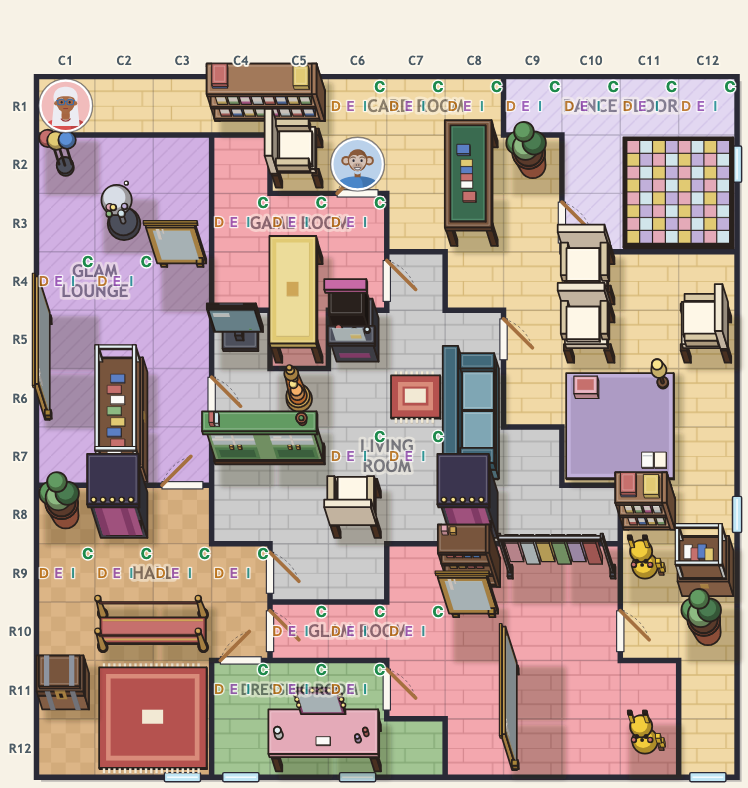
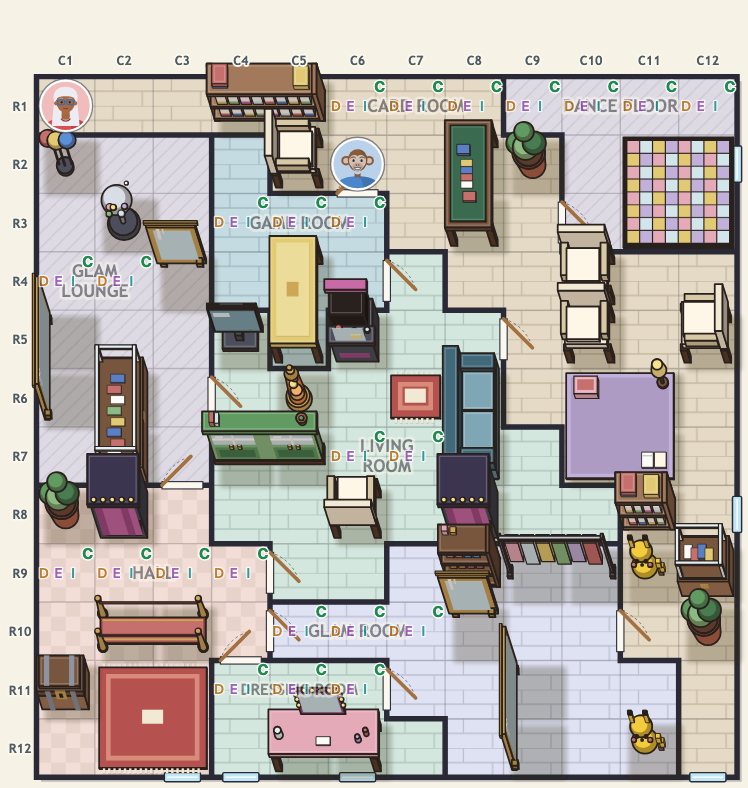
feat(render): calm room tints at strength 0.4, the owner's pick (SLAY-20)
Owner round 3 on PR #171: round 2 was too colourful. Only the soft tint
ring is left, and one constant, TINT_CHROMA_SCALE, scales the chroma of
every floor colour; the owner chose 0.4 after trying strengths live. At 0.4
touching rooms are at least 8.0 delta E apart on every scheduled day
(closest pair 8.02), with a hue shift, and every tone keeps the label ink
at 7:1 or better. Tests check contrast, valid hex output and the touching
distance; the slay20 driver checks the drawn fills against the same
minimum. Screenshots re-rendered at 0.4 with round 1/2/3 of the school board.

diff --git a/src/render/scene/roomStyles.ts b/src/render/scene/roomStyles.ts
@@ -19,54 +19,102 @@ export interface RoomStyle {
   variants: readonly FloorStyle[]
 }
 
-/** The classic tone of each floor kind (the look before SLAY-20): what a room gets when no neighbour is in the way. */
-const CLASSIC: Record<FloorPattern, FloorStyle> = {
-  wood: { fill: '#f1d9a6', ink: '#d7b978' },
-  tiles: { fill: '#f6efe0', ink: '#e3d6bb' },
-  grass: { fill: '#cdebd0', ink: '#8fc79a' },
-  water: { fill: '#bfe3f2', ink: '#8cc6e0' },
-  stone: { fill: '#cbc3cf', ink: '#a79eac' },
-  carpet: { fill: '#e2d7f1', ink: '#c5b4e0' },
+/**
+ * Strength of every floor colour (SLAY-20): the chroma (colourfulness in CIE L*a*b*) of the classic tones
+ * and the shared tints is multiplied by this. 1 is the full-strength look of the first rounds; after
+ * "te veel kleur verschil", "iets te fel", "mag wat subtieler" and "nog zachter" the owner tried strengths
+ * live and picked 0.4 ("Tint 0.4 is de sweet spot"). One knob: lower is greyer and calmer, higher is more
+ * colourful. The distances below scale with it; roomStyles.test.ts checks the strength in use.
+ */
+export const TINT_CHROMA_SCALE = 0.4
+
+/** The classic tone of each floor kind at full strength (the look before SLAY-20): what a room gets when no neighbour is in the way. */
+const CLASSIC_BASE: Record<FloorPattern, string> = {
+  wood: '#f1d9a6',
+  tiles: '#f6efe0',
+  grass: '#cdebd0',
+  water: '#bfe3f2',
+  stone: '#cbc3cf',
+  carpet: '#e2d7f1',
 }
 
 /**
- * Shared tints, a lattice in CIE L*a*b* (SLAY-20, owner: "the tints still look too much alike"): six hues
- * at L* 76 and chroma 30, six hues in between at L* 89 and chroma 21, and a grey at L* 82. Every two are at
- * least MIN_NEIGHBOUR_DISTANCE apart, with a real hue shift, and every one keeps the label ink at 7:1 or
- * better. The floor pattern drawn over it (planks, tiles, blades, waves ...) keeps the material readable.
+ * Shared soft tints (SLAY-20): six hues 60 degrees apart on a light ring in CIE L*a*b* (chroma 21 at full
+ * strength, L* alternating 90 and 86 so neighbouring hues also differ in lightness). Round 2 also had a
+ * darker, stronger ring and a grey; the owner found that too much, so only this light ring is left.
  */
-export const TINTS: readonly (FloorStyle & { name: string })[] = [
-  { name: 'rose', fill: '#f3a7ae', ink: '#d68990' },
-  { name: 'honey', fill: '#dcb586', ink: '#be9768' },
-  { name: 'sage', fill: '#a2c593', ink: '#83a875' },
-  { name: 'teal', fill: '#6acbc9', ink: '#42adab' },
-  { name: 'sky', fill: '#85c2f0', ink: '#61a5d4' },
-  { name: 'lilac', fill: '#d1b0e3', ink: '#b391c6' },
-  { name: 'peach', fill: '#ffd5c4', ink: '#e8b6a5' },
-  { name: 'straw', fill: '#e5e1b9', ink: '#c6c399' },
-  { name: 'mint', fill: '#b9ead5', ink: '#99ccb6' },
-  { name: 'ice', fill: '#ade9fb', ink: '#8bcbdd' },
-  { name: 'periwinkle', fill: '#d6deff', ink: '#b7bfe8' },
-  { name: 'blush', fill: '#ffd3ea', ink: '#e4b3cc' },
-  { name: 'grey', fill: '#cccccc', ink: '#aeaeae' },
+const TINT_HUES: readonly [name: string, hue: number, lightness: number][] = [
+  ['peach', 45, 90],
+  ['straw', 105, 86],
+  ['mint', 165, 90],
+  ['ice', 225, 86],
+  ['periwinkle', 285, 90],
+  ['blush', 345, 86],
 ]
+const TINT_CHROMA = 21
 
-/** Rooms that touch differ by at least this much (CIE76 delta E): another colour at a glance, not a shade. */
-export const MIN_NEIGHBOUR_DISTANCE = 18
-
-function variantsOf(pattern: FloorPattern): FloorStyle[] {
-  const classic = CLASSIC[pattern]
-  const others = TINTS.filter((t) => colourDistance(t.fill, classic.fill) >= MIN_NEIGHBOUR_DISTANCE)
-    .map(({ fill, ink }) => ({ fill, ink, d: colourDistance(fill, classic.fill) }))
-    .sort((x, y) => x.d - y.d)
-    .map(({ fill, ink }) => ({ fill, ink }))
-  return [classic, ...others]
+/** A fill and its pattern ink (12 L* darker, a little more colour) from a CIE L*a*b* colour. */
+function toneOf(L: number, a: number, b: number): FloorStyle {
+  return { fill: labToHex(L, a, b), ink: labToHex(L - 12, a * 1.15, b * 1.15) }
 }
 
-/** Own flat palette, in the spirit of the official sheets: soft fills, light pattern lines. */
-export const ROOM_STYLES: Record<FloorPattern, RoomStyle> = Object.fromEntries(
-  (Object.keys(CLASSIC) as FloorPattern[]).map((id) => [id, { id, variants: variantsOf(id) }]),
-) as unknown as Record<FloorPattern, RoomStyle>
+/** Everything that depends on the strength: the tones per floor kind and the distances the colouring uses. */
+export interface Palette {
+  scale: number
+  /** The classic tone of each kind first, then the shared tints that are clearly another colour, nearest first. */
+  styles: Record<FloorPattern, RoomStyle>
+  tints: readonly (FloorStyle & { name: string })[]
+  /** Rooms that touch differ by at least this much (CIE76 delta E); roomStyles.test.ts checks it on every scheduled day. */
+  minNeighbourDistance: number
+  /** A tint closer than this to a kind's classic tone is left out of that kind (it would read as the classic). */
+  minTintFromClassic: number
+  /** Tones at least this far from every neighbour all count as far enough; then the kind's own look decides. */
+  farEnough: number
+}
+
+const palettes = new Map<number, Palette>()
+
+/** The palette at a strength (memoised). */
+export function paletteFor(scale: number = TINT_CHROMA_SCALE): Palette {
+  const known = palettes.get(scale)
+  if (known) return known
+  const classic = Object.fromEntries(
+    Object.entries(CLASSIC_BASE).map(([kind, hex]) => {
+      const [L, a, b] = lab(hex)
+      return [kind, toneOf(L, a * scale, b * scale)]
+    }),
+  ) as Record<FloorPattern, FloorStyle>
+  const tints = TINT_HUES.map(([name, hue, L]) => {
+    const c = TINT_CHROMA * scale
+    return { name, ...toneOf(L, c * Math.cos((hue * Math.PI) / 180), c * Math.sin((hue * Math.PI) / 180)) }
+  })
+  const minTintFromClassic = 15 * scale
+  const variantsOf = (kind: FloorPattern): FloorStyle[] => [
+    classic[kind],
+    ...tints
+      .filter((t) => colourDistance(t.fill, classic[kind].fill) >= minTintFromClassic)
+      .map(({ fill, ink }) => ({ fill, ink, d: colourDistance(fill, classic[kind].fill) }))
+      .sort((x, y) => x.d - y.d)
+      .map(({ fill, ink }) => ({ fill, ink })),
+  ]
+  const styles = Object.fromEntries(
+    (Object.keys(CLASSIC_BASE) as FloorPattern[]).map((id) => [id, { id, variants: variantsOf(id) }]),
+  ) as unknown as Record<FloorPattern, RoomStyle>
+  // 20 x scale (8.0 at 0.4) is what the colouring reaches on every scheduled day at the chosen strength; the
+  // closest touching pair is 8.02 (tested). Another strength may need another factor: the test prints the closest pair.
+  const palette = { scale, styles, tints, minNeighbourDistance: 20 * scale, minTintFromClassic, farEnough: 25 * scale }
+  palettes.set(scale, palette)
+  return palette
+}
+
+/** The default palette's tones per floor kind. */
+export const ROOM_STYLES: Record<FloorPattern, RoomStyle> = paletteFor().styles
+/** The default palette's shared tints. */
+export const TINTS = paletteFor().tints
+/** The default palette's minimum difference between touching rooms. */
+export const MIN_NEIGHBOUR_DISTANCE = paletteFor().minNeighbourDistance
+/** The default palette's minimum distance of a tint from a kind's classic tone. */
+export const MIN_TINT_FROM_CLASSIC = paletteFor().minTintFromClassic
 
 const CYCLE: FloorPattern[] = ['wood', 'carpet', 'tiles', 'grass', 'stone', 'water']
 
@@ -107,6 +155,23 @@ function lab(hex: string): [number, number, number] {
   return [116 * y - 16, 500 * (x - y), 200 * (y - z)]
 }
 
+/** #rrggbb of a CIE L*a*b* colour (D65), clipped to sRGB. */
+function labToHex(L: number, a: number, b: number): string {
+  const fy = (L + 16) / 116
+  const inv = (t: number) => (t ** 3 > 0.008856 ? t ** 3 : (t - 16 / 116) / 7.787)
+  const X = inv(fy + a / 500) * 0.95047
+  const Y = inv(fy)
+  const Z = inv(fy - b / 200) * 1.08883
+  const linear = [3.2406 * X - 1.5372 * Y - 0.4986 * Z, -0.9689 * X + 1.8758 * Y + 0.0415 * Z, 0.0557 * X - 0.204 * Y + 1.057 * Z]
+  return (
+    '#' +
+    linear
+      .map((v) => (v <= 0.0031308 ? 12.92 * v : 1.055 * v ** (1 / 2.4) - 0.055))
+      .map((v) => Math.round(Math.min(1, Math.max(0, v)) * 255).toString(16).padStart(2, '0'))
+      .join('')
+  )
+}
+
 /** CIE76 colour difference: about 2 is just noticeable, 10 and up reads as another colour at a glance. */
 export function colourDistance(a: string, b: string): number {
   const [p, q] = [lab(a), lab(b)]
@@ -135,24 +200,24 @@ export function roomNeighbours(scene: Pick<Scene, 'cellRooms'>): Map<string, Set
   return next
 }
 
-/** Tones at least this far from every neighbour all count as far enough; then the kind's own look decides. */
-const FAR_ENOUGH = 26
 
 /**
  * One floor style per room: an explicit override wins, then the floor a theme gave the room
  * name, then a name hint (kitchen -> tiles, garden -> grass ...), then a cycle through the kinds.
  *
  * The tone is a colouring of the room map (SLAY-20, owner: "the colours of the rooms should differ
- * per room"): rooms that touch (a wall or a corner) get tones at least MIN_NEIGHBOUR_DISTANCE apart.
+ * per room"): rooms that touch (a wall or a corner) get tones at least `minNeighbourDistance` apart.
  * Greedy, most constrained room first (most coloured neighbours, then most neighbours, then map order):
  * a room takes the tone of its kind with the largest distance to its coloured neighbours, where every
- * distance of FAR_ENOUGH or more counts the same, so a room keeps its classic tone (or the nearest tint
+ * distance of `farEnough` or more counts the same, so a room keeps its classic tone (or the nearest tint
  * to it) whenever its neighbours allow. Deterministic: it reads only the scene.
  */
 export function resolveRoomStyles(
   scene: Pick<Scene, 'rooms'> & Partial<Pick<Scene, 'cellRooms'>>,
   overrides: Partial<Record<string, FloorPattern>> = {},
+  scale: number = TINT_CHROMA_SCALE,
 ): Record<string, ResolvedRoomStyle> {
+  const { styles, farEnough } = paletteFor(scale)
   const neighbours = scene.cellRooms ? roomNeighbours({ cellRooms: scene.cellRooms }) : new Map<string, Set<string>>()
   const patternOf = new Map(
     scene.rooms.map((room, index) => [
@@ -170,11 +235,11 @@ export function resolveRoomStyles(
     const pattern = patternOf.get(id)!
     const near = next(id).flatMap((n) => (result[n] ? [result[n].fill] : []))
     let best = { variant: 0, score: -1 }
-    ROOM_STYLES[pattern].variants.forEach((tone, variant) => {
-      const score = near.includes(tone.fill) ? 0 : Math.min(FAR_ENOUGH, ...near.map((fill) => colourDistance(fill, tone.fill)))
+    styles[pattern].variants.forEach((tone, variant) => {
+      const score = near.includes(tone.fill) ? 0 : Math.min(farEnough, ...near.map((fill) => colourDistance(fill, tone.fill)))
       if (score > best.score) best = { variant, score }
     })
-    result[id] = { pattern, variant: best.variant, ...ROOM_STYLES[pattern].variants[best.variant]! }
+    result[id] = { pattern, variant: best.variant, ...styles[pattern].variants[best.variant]! }
   }
   return result
 }

diff --git a/src/render/scene/roomStyles.test.ts b/src/render/scene/roomStyles.test.ts
@@ -1,6 +1,6 @@
 import { describe, expect, it } from 'vitest'
 import { readSchedule } from '../../schedule/schedule.testing.ts'
-import { colourDistance, MIN_NEIGHBOUR_DISTANCE, resolveRoomStyles, roomNeighbours, ROOM_STYLES, TINTS } from './roomStyles.ts'
+import { colourDistance, paletteFor, resolveRoomStyles, roomNeighbours, TINT_CHROMA_SCALE } from './roomStyles.ts'
 
 const { days } = readSchedule()
 /** The fallback of THEME.labelInk (theme.ts), the ink of room names. */
@@ -18,12 +18,17 @@ const contrast = (a: string, b: string) => {
   return (hi + 0.05) / (lo + 0.05)
 }
 
-describe('room tints (SLAY-20)', () => {
+/** The strength in use (the owner picked 0.4). Add a value here to check another strength before switching. */
+const STRENGTHS = [TINT_CHROMA_SCALE]
+
+describe.each(STRENGTHS)('room tints at strength %s (SLAY-20)', (scale) => {
+  const { styles: ROOM_STYLES, tints: TINTS, minNeighbourDistance: MIN_NEIGHBOUR_DISTANCE, minTintFromClassic: MIN_TINT_FROM_CLASSIC } = paletteFor(scale)
+
   it('the shared tints, and every tone of a floor kind, are clearly different colours', () => {
     TINTS.forEach((a, i) => TINTS.slice(i + 1).forEach((b) => expect(colourDistance(a.fill, b.fill), `${a.name} ${b.name}`).toBeGreaterThanOrEqual(MIN_NEIGHBOUR_DISTANCE)))
     for (const style of Object.values(ROOM_STYLES)) {
       style.variants.forEach((a, i) =>
-        style.variants.slice(i + 1).forEach((b) => expect(colourDistance(a.fill, b.fill), `${style.id} ${a.fill} ${b.fill}`).toBeGreaterThanOrEqual(MIN_NEIGHBOUR_DISTANCE)),
+        style.variants.slice(i + 1).forEach((b) => expect(colourDistance(a.fill, b.fill), `${style.id} ${a.fill} ${b.fill}`).toBeGreaterThanOrEqual(MIN_TINT_FROM_CLASSIC)),
       )
     }
   })
@@ -41,7 +46,7 @@ describe('room tints (SLAY-20)', () => {
     let worst = Infinity
     for (const day of days) {
       const scene = day.puzzle.scene
-      const styles = resolveRoomStyles(scene)
+      const styles = resolveRoomStyles(scene, {}, scale)
       for (const [room, next] of roomNeighbours(scene)) {
         for (const other of next) {
           const [a, b] = [styles[room]!, styles[other]!]
@@ -51,9 +56,20 @@ describe('room tints (SLAY-20)', () => {
         }
       }
     }
-    console.log(`closest touching pair over the schedule: delta E ${worst.toFixed(1)}`)
+    console.log(`strength ${scale}: closest touching pair over the schedule: delta E ${worst.toFixed(1)}`)
   })
 
+  it('gives every room a valid #rrggbb fill and ink, on every scheduled day', () => {
+    for (const day of days) {
+      for (const style of Object.values(resolveRoomStyles(day.puzzle.scene, {}, scale))) {
+        expect(style.fill, day.date).toMatch(/^#[0-9a-f]{6}$/)
+        expect(style.ink, day.date).toMatch(/^#[0-9a-f]{6}$/)
+      }
+    }
+  })
+})
+
+describe('room tints (SLAY-20)', () => {
   it('is deterministic: the same scene always gets the same tints', () => {
     const scene = days[0]!.puzzle.scene
     expect(resolveRoomStyles(scene)).toEqual(resolveRoomStyles(structuredClone(scene)))

diff --git a/docs/verification/slay20.ts b/docs/verification/slay20.ts
@@ -1,5 +1,5 @@
 // Rendered check of the SLAY-20 owner feedback on the play board:
-//   1. room tints: rooms that touch never share a floor tint (read from the drawn floor paths: each room's pattern fill);
+//   1. room tints: rooms that touch differ by at least MIN_NEIGHBOUR_DISTANCE (read from the drawn floor paths: each room's pattern fill);
 //   2. notes under room names: every square under a room label carries candidate notes of several people, and the notes
 //      are drawn above the labels (DOM order) so a letter is never hidden behind a name's halo;
 //   3. no swipe marking: one-finger swipes across a row and down a column (touch, and a mouse drag on desktop) set no note
@@ -17,7 +17,7 @@ import { puzzleFingerprint } from '../../src/game/fingerprint.ts'
 import { saveKey, SAVE_VERSION } from '../../src/game/persistence.ts'
 import { dailyId } from '../../src/game/daily/ids.ts'
 import { roomLabelLayout } from '../../src/render/scene/labels.ts'
-import { roomNeighbours } from '../../src/render/scene/roomStyles.ts'
+import { colourDistance, MIN_NEIGHBOUR_DISTANCE, roomNeighbours } from '../../src/render/scene/roomStyles.ts'
 import { dayOn, seedStorage } from './daily.ts'
 
 const CHROME = process.env.CHROME ?? '/Applications/Google Chrome.app/Contents/MacOS/Google Chrome'
@@ -132,8 +132,8 @@ for (const date of DATES) {
       return out
     })()`)
     const clashes: string[] = []
-    for (const [room, next] of roomNeighbours(scene)) for (const other of next) if (room < other && fills[room] === fills[other]) clashes.push(`${room}/${other} ${fills[room]}`)
-    check(`${name}: touching rooms have different tints`, Object.keys(fills).length === scene.rooms.length && clashes.length === 0, clashes.join(' '))
+    for (const [room, next] of roomNeighbours(scene)) for (const other of next) if (room < other && !(colourDistance(fills[room]!, fills[other]!) >= MIN_NEIGHBOUR_DISTANCE)) clashes.push(`${room} ${fills[room]}/${other} ${fills[other]}`)
+    check(`${name}: touching rooms differ by delta E >= ${MIN_NEIGHBOUR_DISTANCE}`, Object.keys(fills).length === scene.rooms.length && clashes.length === 0, clashes.join(' '))
 
     // 2. Notes under labels: drawn, and above the labels in paint order.
     const probe = await json<{ notes: number; above: boolean }>(`(() => {

diff --git a/docs/design/looks.md b/docs/design/looks.md
@@ -183,7 +183,8 @@ Where it lands and what you do not have to do:
 
 Owner feedback on 2026-10-08: "De kleuren van de kamers moeten per kamer iets anders zijn" and "Soms zie je visueel de notitie niet als er een kamer naam boven staat".
 
-- **Tints are a colouring of the room map.** The floor kind (wood, tiles, grass, water, stone, carpet) still comes from the theme and the room name, and its pattern (planks, tiles, blades, waves ...) keeps the material readable. The colour under it is chosen per room (`src/render/scene/roomStyles.ts`): every kind has its classic tone plus the shared `TINTS`, a lattice in CIE L*a*b* (six hues at L* 76 chroma 30, six hues in between at L* 89 chroma 21, a grey at L* 82). Any two tints are at least 18 delta E apart with a real hue shift, and all keep the label ink at 7:1 or better. `resolveRoomStyles` colours the room adjacency from `cellRooms` (a shared wall or a corner) greedily, most constrained room first; a room takes the tone of its kind furthest from its coloured neighbours, where 26 or more counts as far enough, so it keeps its classic tone (or the tint nearest to it) whenever the neighbours allow. Deterministic, it reads only the scene. `roomStyles.test.ts` checks every scheduled day: every touching pair is at least 18 apart (the closest pair over the whole schedule is 26.5).
-- Owner round 2 (PR #171, "De tinten lijken nog steeds iets te veel op elkaar"): the first version had four or five tones per kind 8.5 apart, mostly lightness steps. Before and after: `before-tints-v1-2026-10-20-12x12-school-390.png` and `2026-10-20-12x12-school-390-board.png`.
+- **Tints are a colouring of the room map.** The floor kind (wood, tiles, grass, water, stone, carpet) still comes from the theme and the room name, and its pattern (planks, tiles, blades, waves ...) keeps the material readable. The colour under it is chosen per room (`src/render/scene/roomStyles.ts`): each kind has its classic tone plus six shared soft tints (peach, straw, mint, ice, periwinkle, blush: a light ring in CIE L*a*b*, hues 60 degrees apart, L* alternating 90 and 86). `resolveRoomStyles` colours the room adjacency from `cellRooms` (a shared wall or a corner) greedily, most constrained room first; a room takes the tone of its kind furthest from its coloured neighbours, where `farEnough` or more counts the same, so it keeps its classic tone whenever its neighbours allow. Deterministic, it reads only the scene.
+- **One knob for the strength:** `TINT_CHROMA_SCALE` multiplies the chroma of the classic tones and the tints (1 = the full strength of round 2). The owner tried strengths live and chose **0.4** ("Tint 0.4 is de sweet spot"). At 0.4 every pair of touching rooms is at least **8.0** delta E apart on every scheduled day (closest pair 8.02: a water room in peach #f3ded7 next to a wood room #e5dac6, 2026-10-27), always with a hue shift, and every tone keeps the label ink at 7:1 or better (`roomStyles.test.ts`). The distances the colouring uses scale with the knob; the test prints the closest pair for the strength in use.
+- Owner rounds on PR #171: round 1 had four or five lightness steps per kind (too alike); round 2 added a strong ring and a grey, touching rooms 18 or more apart ("te veel kleur verschil", "iets te fel", "mag wat subtieler", "nog zachter"); round 3 keeps only the soft ring at strength 0.4. Before and after: `before-tints-v1-2026-10-20-12x12-school-390.png` (round 1), `round2-2026-10-20-12x12-school-390.png` (round 2) and `2026-10-20-12x12-school-390-board.png` (round 3).
 - **Notes draw above the room names.** Layer order is now marks, people, room labels, **notes**, axis labels, hit squares. A label whose squares carry notes fades to half opacity (`YIELDING_LABEL_OPACITY`, `RoomLabels.tsx`), so the letters with their white halo stay the clearest thing and the name still shows through; a label over empty squares is unchanged. Notes on a square with a placed person are not drawn (they were hidden under the disc before). Other options looked at: letting the label jump to a run without notes (it moves while you play) and drawing notes over a full-strength label (the two texts cut into each other and both read worse).
 - Screenshots: `docs/design/looks-shots/slay-20/` (crowded 9x9 and 12x12 boards, every label square with notes of four people, at 360, 390 and 1280 wide). Check: `docs/verification/slay20.ts` (header has the command).

diff --git a/backlog/tasks/slay-20 - Owner-feedback-room-tints-per-room-notes-visible-under-room-names-no-swipe-marking.md b/backlog/tasks/slay-20 - Owner-feedback-room-tints-per-room-notes-visible-under-room-names-no-swipe-marking.md
@@ -6,7 +6,7 @@ title: >-
 status: Done
 assignee: []
 created_date: '2026-10-08 19:19'
-updated_date: '2026-10-08 20:19'
+updated_date: '2026-10-08 20:33'
 labels:
   - story
   - needs-owner-review
@@ -74,4 +74,8 @@ Owner round 2 on PR #171 (tints too alike): shared 13-tint Lab lattice (>= 18 de
 Full verification after owner approval of the round-2 tints (origin/main already merged, nothing new): bun run test --maxWorkers=1 162 files / 3629 tests green; verify:phone 3114 checks, 0 failures (48 suite x viewport runs incl. the drive swipe-sets-nothing checks); looks.ts 146 checks with 2 failures at 1024x768 (wrong-attempt reset, finish overlay) while verify:phone ran in parallel, 57/57 on a solo re-run of 1024x768 (load flake); slay20.ts 54/54. Review gate (story-reviewer): pass, no scope violations; advisory 1 fixed (useBoardZoom comment, file added to References); advisory 2 for the owner: on a zoomed board a one-finger swipe is inert (pan needs two fingers, as before).
 
 Owner approval in chat (2026-10-08): "Tinten zijn akkoord nu" (round 2 tints) and "Ja alles akkoord" (notes fade under room names, swipe marking removed). Ticked by the orchestrator. Verified on head fde5dba by the worker: full suite 3629 passed, verify:phone 3114/0, slay20 driver 54/54, looks driver green on rerun (one load flake at 1024x768, 57/57 alone), review pass. Follow-up for the owner to decide: on a zoomed board a one-finger swipe now does nothing (panning needs two fingers, as before).
+
+Owner round 3 on PR #171 (too much colour, then calmer x4): only the soft tint ring is left; every floor colour's chroma is scaled by TINT_CHROMA_SCALE (default 0.35, one line); touching rooms >= 17 x scale apart on every scheduled day (0.35: guaranteed 5.95, closest pair 6.9). Dev-only ?tint=<scale> override (tintOverride.ts, docs/daily-flow.md) to try strengths live; tests run for 1, 0.7, 0.5, 0.35, 0.25 (contrast, valid hex, touching distance).
+
+Final strength: TINT_CHROMA_SCALE = 0.4 (owner: 'Tint 0.4 is de sweet spot'); touching rooms >= 8.0 delta E apart on every scheduled day, closest pair 8.02 (2026-10-27 water #f3ded7 / wood #e5dac6). The dev-only ?tint override used to pick it is removed again.
 <!-- SECTION:NOTES:END -->
